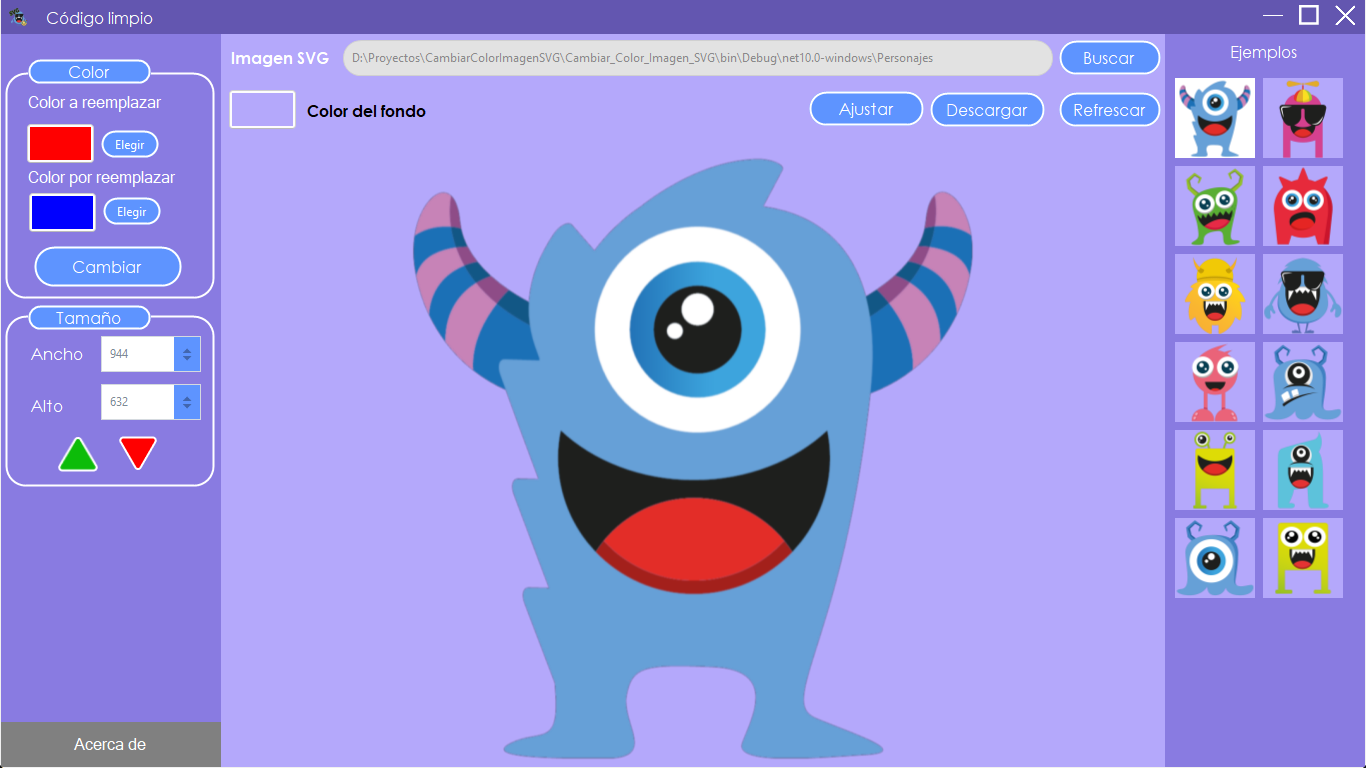
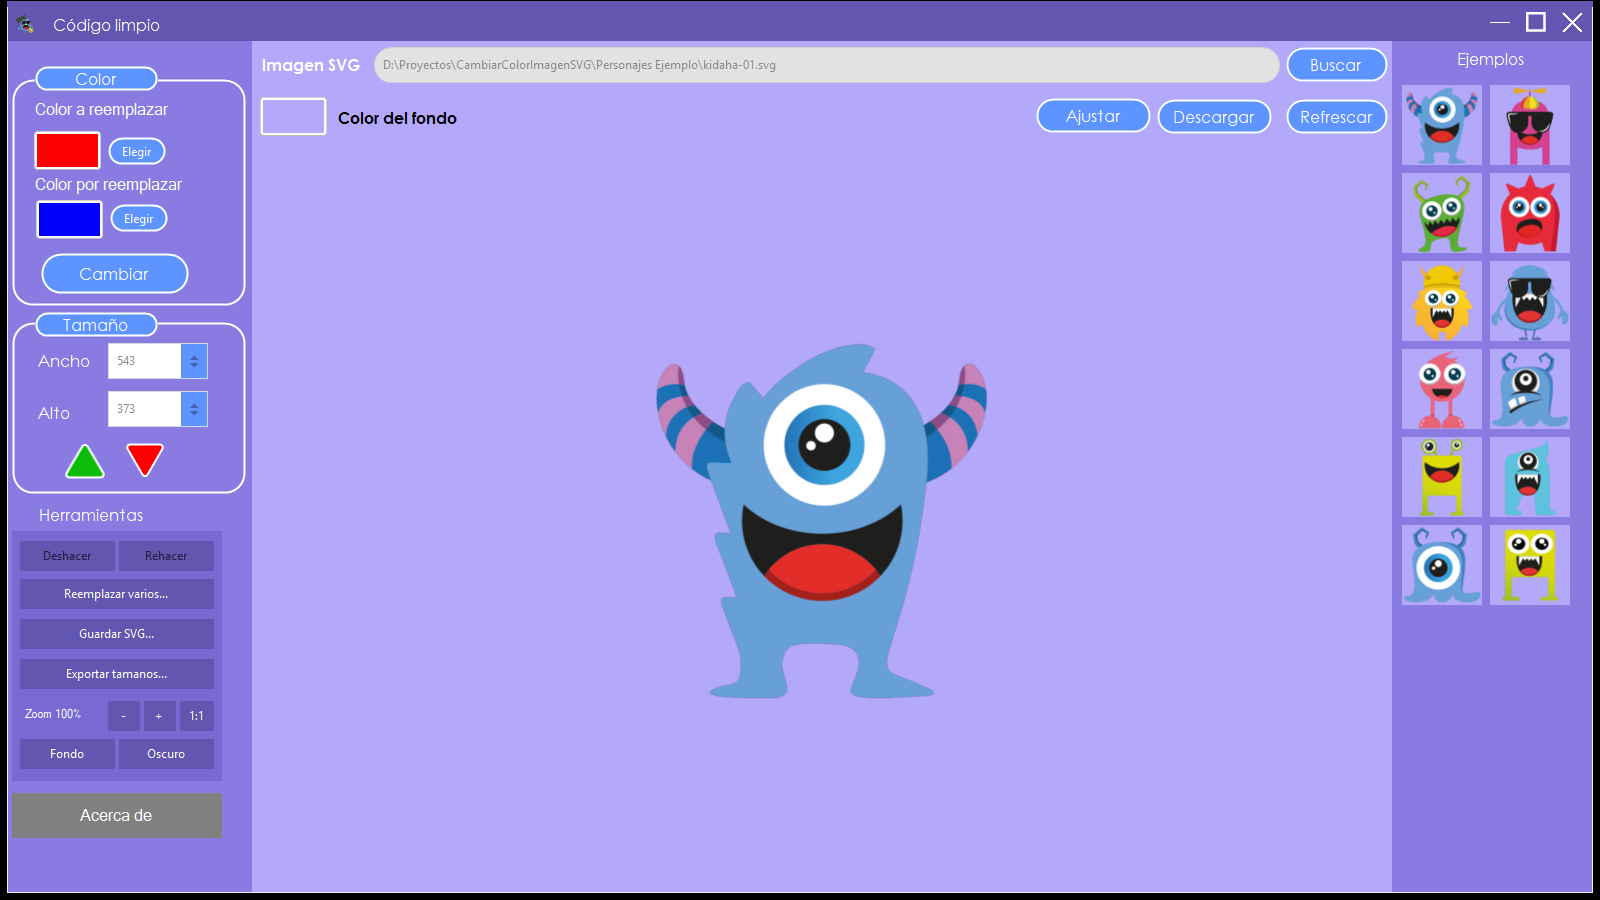
build(package): bump version to 1.1.0 and update store metadata
Update project versioning and application manifest to reflect the 1.1.0 release. This includes updating the store listing description, feature highlights, and assets in the packaging directory to align with the new capabilities.

diff --git a/Empaquetado/ficha-tienda.md b/Empaquetado/ficha-tienda.md
@@ -15,7 +15,7 @@ Editor de Colores SVG
 *(máx. 200 caracteres — aparece en resultados de búsqueda)*
 
 ```
-Cambia los colores de cualquier imagen SVG con solo elegir el color a reemplazar y el nuevo. Exporta el resultado como PNG.
+Cambia los colores de cualquier imagen SVG y exporta el resultado como SVG, PNG, JPG o BMP, en el tamaño que necesites. Sin conexión, sin cuenta.
 ```
 
 ## Descripción
@@ -23,15 +23,18 @@ Cambia los colores de cualquier imagen SVG con solo elegir el color a reemplazar
 ```
 Editor de Colores SVG te permite recolorear imágenes vectoriales sin abrir un editor gráfico pesado ni tocar una línea de código.
 
-Abre un archivo SVG, elige el color que quieres reemplazar, elige el nuevo, y listo. Puedes tomar los colores directamente de la imagen con el selector, ajustar el tamaño de la vista previa y exportar el resultado como PNG.
+Abre un archivo SVG, elige el color que quieres reemplazar, elige el nuevo, y listo. El resultado sigue siendo un vector: lo puedes guardar como SVG, o exportarlo como imagen en el tamaño que necesites.
 
 QUÉ PUEDES HACER
 
-• Reemplazar cualquier color de una imagen SVG por otro
+• Reemplazar uno o varios colores a la vez, con una paleta que muestra los colores reales del archivo
 • Tomar los colores con un selector, directamente desde la imagen
-• Cambiar el color de fondo de la vista previa
-• Ajustar el tamaño de la imagen antes de exportar
-• Guardar el resultado como PNG
+• Guardar el resultado como SVG (sigue siendo vector) o exportarlo como PNG, JPG o BMP
+• Exportar en varios tamaños de una sola vez (íconos, redes sociales, lo que necesites)
+• Deshacer y rehacer cambios (Ctrl+Z / Ctrl+Y)
+• Arrastrar y soltar un archivo SVG sobre la ventana para abrirlo
+• Acercar y alejar la vista previa, con fondo de cuadros para revisar la transparencia
+• Tema claro u oscuro, con tus últimos colores siempre a mano
 • Empezar desde la galería de personajes incluida, sin buscar archivos
 
 GALERÍA INCLUIDA
@@ -48,11 +51,11 @@ No necesita internet. No recolecta datos. No requiere cuenta.
 *(viñetas cortas, máx. 200 caracteres cada una)*
 
 ```
-Reemplaza colores de imágenes SVG en segundos
-Selector para tomar colores desde la propia imagen
-Exporta el resultado como PNG
+Reemplaza uno o varios colores de una imagen SVG a la vez
+Guarda el resultado como SVG, PNG, JPG o BMP
+Exporta en varios tamaños de una sola pasada
+Deshacer y rehacer, arrastrar y soltar, zoom y tema oscuro
 Galería de 12 personajes de ejemplo incluida
-Funciona sin conexión y sin recolectar datos
 ```
 
 ## Palabras clave de búsqueda
@@ -65,9 +68,31 @@ editor SVG
 cambiar color
 recolorear
 vectorial
-PNG
+exportar SVG
 color
 ```
+
+## Novedades de esta versión (1.1.0.0)
+
+*(Partner Center → Packages → "What's new in this version", o Store listing si el
+mercado no separa el campo. Máx. 1500 caracteres.)*
+
+```
+Novedades de la versión 1.1:
+
+• Guardar como SVG: el resultado recoloreado ahora se puede exportar como vector, no solo como imagen.
+• Reemplazar varios colores a la vez, eligiendo entre la paleta real de la imagen.
+• Exportar en varios tamaños de una sola pasada (íconos, redes sociales, etc.), en SVG, PNG, JPG o BMP.
+• Deshacer y rehacer (Ctrl+Z / Ctrl+Y).
+• Arrastrar y soltar un archivo SVG sobre la ventana para abrirlo.
+• Zoom en la vista previa y fondo de cuadros para revisar la transparencia.
+• Tema claro y oscuro, y colores recientes a mano en el selector.
+• El reemplazo de color ahora cubre toda la imagen (relleno, contorno y degradados), no solo el relleno de algunas figuras.
+• Se corrigieron el maximizado en varios monitores y los botones de ampliar/reducir tamaño, que antes fallaban de forma intermitente.
+```
+
+*(Texto completo de todos los cambios en `CHANGELOG.md`, por si hace falta más
+detalle en alguna sección.)*
 
 ---
 
